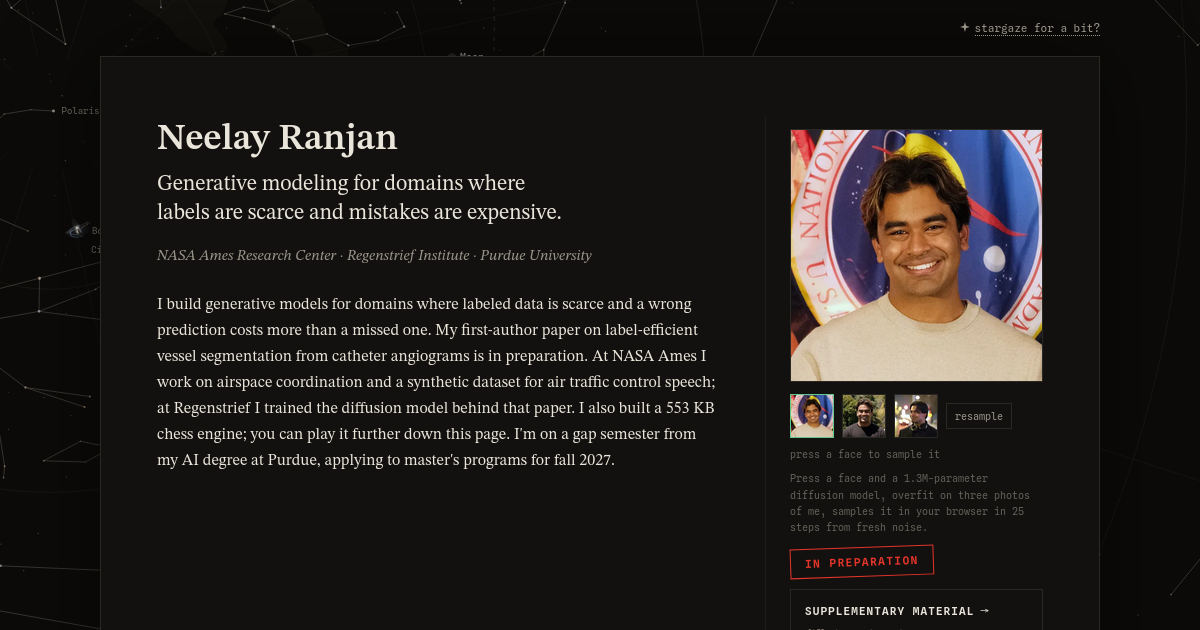
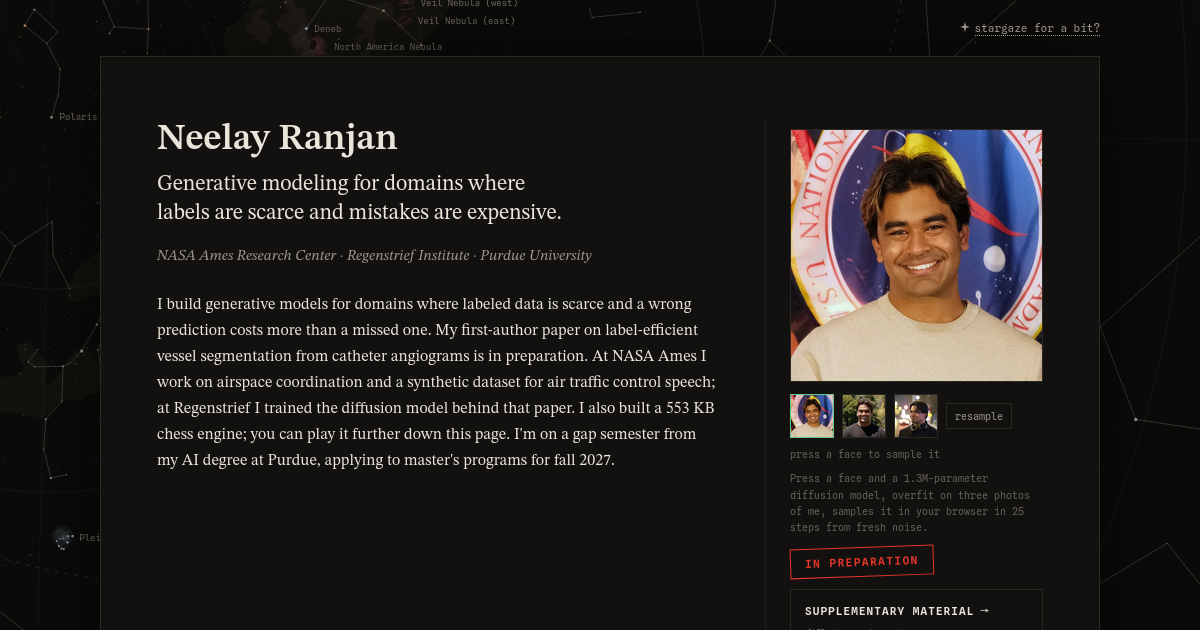
docs: merge-time pass, the SLAAC round goes live; og card regenerated
The owner's NASA mentor and NASA legal approved the preview (2026-10-01).
CLAUDE.md now describes production: Figure 3 is the live rerouter, the
flight video is /lab's S3, the preview-only gates are history, and the
parked doc items (the failed run state, the dotted model arc, the S3
heading) are written down.

diff --git a/CLAUDE.md b/CLAUDE.md
@@ -16,13 +16,19 @@ contracts below.
 
 **In production at neelayranjan.dev since 2026-09-12** (fast-forward of the
 15-task `redesign` build into `main` after a full verification run; the branch
-is deleted; v1 lives at the tag). Page 1: masthead (title, abstract, the
+is deleted; v1 lives at the tag). **2026-10-01: the `slaac-demo` round
+(the live SLAAC rerouter as Figure 3, the flight video to `/lab`, the
+colophon, the secret stargaze door, the mag-6 coloured sky, the myth
+artworks) fast-forwarded into `main` and deployed, after the owner's NASA
+mentor and NASA legal approved its preview.** Page 1: masthead (title, abstract, the
 live-sampled author photo, the paper-status stamp (IN PREPARATION; UNDER REVIEW until 2026-09-14), status only since
 2026-09-16, with the bordered "Supplementary material" box beneath it as the
 door to `/lab`, identity links) → Table 1 → Research
-(Figure 1 label-efficiency sweep, Figure 2 Dice CDF, Figure 3 flight map) →
-the live demos as Figures 4–5 (chess, then draw — swapped 2026-09-13 at the owner's call, the `n` props swapped with them) → Experience as Figure 6 (NASA and Regenstrief
-lamps green/active) → References → the footer's stargaze door → the colophon (`© 2026 Neelay Ranjan · email · Resume`, `Colophon.tsx`, the sheet's last child on `/` and `/lab`; its Resume link carries `data-track-label="Resume"`). `/lab` holds S1–S2 (S3 cut 2026-09-29). Same-day post-launch
+(Figure 1 label-efficiency sweep, Figure 2 Dice CDF, then the bordered NASA
+box holding Figure 3, the live SLAAC rerouter, since 2026-10-01; Figure 3
+was the flight-day video until then) →
+the live demos as Figures 4–5 (chess, then draw — swapped 2026-09-13 at the owner's call, the `n` props swapped with them) → Experience as Figure 6 (Regenstrief's lamp green/active; NASA as two rows
+since 2026-10-01, SLAAC complete and SHIFT active) → References → the footer's stargaze door → the colophon (`© 2026 Neelay Ranjan · email · Resume`, `Colophon.tsx`, the sheet's last child on `/` and `/lab`; its Resume link carries `data-track-label="Resume"`). `/lab` holds S1–S3: the trajectory viewer, JEPA, and since 2026-10-01 the flight-day video as Figure S3 (the sample-space S3 was cut 2026-09-29). Same-day post-launch
 passes: Figure 2 rebuilt from a budget ladder into the paper's pannable Dice
 CDF; the flight video's dark-map treatment; the owner's STIX-N favicon set;
 headshots presented last-class-first (photo 2 is the default face). The wipe
@@ -84,8 +90,8 @@ honest limit: the main-thread ORT wasm heap never actually shrinks, only the
 chess worker's termination truly frees memory. `window.__sky` and
 `window.__offload` are verify hooks, not UI.
 
-**Verification: `scripts/verify-redesign.mjs`** — 53 named checks on the
-`slaac-demo` branch (52 before Task 17, 2026-10-01, added
+**Verification: `scripts/verify-redesign.mjs`** — 53 named checks (on `main`
+since the 2026-10-01 merge of the `slaac-demo` round; 52 before Task 17, 2026-10-01, added
 `stargaze-secret-door`; the count read 51 here though `colophon` made it 52;
 50 before Task 12c, 2026-10-01, added
 `slaac-all-flights`; 45 before the SLAAC round, 2026-09-30, added the five
@@ -302,8 +308,7 @@ scripts/test-sky-iss.mjs scripts/test-sky-images.mjs
 scripts/test-chess-selfplay.mjs scripts/test-resume.mjs
 scripts/test-sky-secret.mjs scripts/test-sky-stars.mjs`** (`test-sky-secret`,
 Task 17's door rule, 4 cases; `test-sky-stars`, Task 18's star paint and
-star colour, 9) plus, on the
-`slaac-demo` branch, the rerouter's ten (`test-slaac-arcs` 16,
+star colour, 9) plus the rerouter's ten (`test-slaac-arcs` 16,
 `test-slaac-data` 8, `test-slaac-dpm` 3, `test-slaac-geometry` 2,
 `test-slaac-guidance` 4, `test-slaac-reroute` 37, `test-slaac-ring` 7,
 `test-slaac-sampler` 5, `test-slaac-summary` 5, `test-slaac-view` 8;
@@ -582,7 +587,10 @@ Also 2026-09-30: **the NASA work sits in its own bordered box**
 holding the NASA paragraph with its SLAAC note and Figure 3, so it reads as
 separate from the paper. The owner plans to grow it into a fuller section;
 the box is that seam. It has no background of its own, on purpose: Figure
-3's video uses `mix-blend-mode: screen` against its own panel.
+3's video used `mix-blend-mode: screen` against its own panel. (Since the
+2026-10-01 merge the box is headed "NASA Ames Research Center" and holds the
+SLAAC and SHIFT paragraphs and Figure 3, the live rerouter; the video, and
+its blend, went to `/lab` as Figure S3.)
 And the chess lede was halved (owner: "cut it down to around half the
 size, if not less"): two short paragraphs of claims, with the training data
 and the int8/fp32 finding moved to a side column of notes inside the
@@ -590,12 +598,14 @@ figure (`copy.systems.chess.ledeNotes`, the same `Note` and 880px split as
 the Research rows). The limit, "here it runs without search, a few hundred
 Elo weaker", stays in the main column.
 
-**2026-09-30/10-01: the SLAAC rerouter, branch `slaac-demo`, PREVIEW ONLY**
-(worktree `../portfolio-slaac`, 16-task SDD build from `1e9b4f8`). ⚠ Nothing
-here is on `main` or neelayranjan.dev: it merges only when the owner says
-their NASA mentor approved the preview link, and the first push (which builds
-that preview) is the owner's call. NASA cleared the Summer 2026 codebase for
-sharing (owner, 2026-09-30), so **Figure 3 became the live rerouter**: pick
+**2026-09-30/10-01: the SLAAC rerouter, LIVE since 2026-10-01** (built on
+branch `slaac-demo` in worktree `../portfolio-slaac`, a 16-task SDD build from
+`1e9b4f8` plus Tasks 17-19: the secret stargaze door, the denser sky
+below, the myth artworks; it was held as a preview-only branch until
+the owner's NASA mentor and NASA legal approved the preview, then
+fast-forwarded into `main` and deployed the same day, 2026-10-01). NASA
+cleared the Summer 2026 codebase for sharing (owner, 2026-09-30), so
+**Figure 3 became the live rerouter**: pick
 one of 48 hub pairs, its flight-plan-LM routes draw, draw an airspace or turn
 on all six US launch sites, and the owner's 5.78M-param diffusion model
 reroutes every flight in a worker and snaps each arc to named fixes, with
@@ -618,8 +628,8 @@ laptop, longer with more airspace or every flight at once" and nothing about
 phones. The numbers behind each phrase are in content/copy.ts's comments.
 Contracts, rulings and numbers: "SLAAC rerouter (Figure 3)" under the demos.
 
-**2026-10-01, Task 18 (branch `slaac-demo`): a denser, more colourful sky,
-every addition real.** Owner: "more randomly added stars around so that it's
+**2026-10-01, Task 18 (built on `slaac-demo`, LIVE with it the same day): a
+denser, more colourful sky, every addition real.** Owner: "more randomly added stars around so that it's
 decently dense, but the constellations still pop out", then colour and pop
 for stargazing. Ruling R23 made it REAL stars, never random ones: the same
 pinned stars.6.json to mag 6.0 (5,044 stars against 1,627), the fainter
@@ -639,11 +649,11 @@ star colour, and the band's gradient".
 
 **Open items, roughly in order:**
 
-The SLAAC round's own, ahead of the list (branch `slaac-demo`):
-- a. **Mentor approval of the preview is the merge gate.** Before the first
-  push, ask the owner; check Vercel's Deployment Protection so the mentor can
-  open the preview (a shareable link or a bypass, the owner's choice).
-- b. **Chrome proper and the owner's iPhone, timed on the preview link.** The
+The SLAAC round's own, ahead of the list (LIVE on `main` since 2026-10-01):
+- a. ~~Mentor approval of the preview is the merge gate.~~ **DONE
+  2026-10-01**: the owner's NASA mentor and NASA legal approved the preview,
+  and the branch was fast-forwarded into `main` and deployed.
+- b. **Chrome proper and the owner's iPhone, timed on production.** The
   laptop numbers are in the SLAAC section; no phone has run the rerouter.
   The phone batch cap (4) is unmeasured on a phone: if the iPhone stalls
   between progress updates, 2 is the lever, and on this laptop it costs
@@ -789,9 +799,9 @@ and the owner's SOP tell one story.
 - **Interactivity bar**: prose sections stay readable — no forced gimmicks — but
   every text section carries one real-work artifact beside it: bio → headshot
   diffusion toy · research → the label-efficiency chart (static since 2026-09-30) and the Dice-CDF pan ·
-  experience → flight-day video (production; on the `slaac-demo` branch the
-  NASA box's artifact is the live rerouter, Figure 3, and the video is Figure
-  S3 on `/lab`) · publications → figure hovers. The owner's
+  experience → the live SLAAC rerouter, Figure 3 in the NASA box (since
+  2026-10-01; the flight-day video held that slot until then and is now
+  Figure S3 on `/lab`) · publications → figure hovers. The owner's
   rule: "at no point should the user just be staring and reading at something."
 - Fallback is the git tag `v1`, nothing more. No legacy subdomain.
 - **Figure colour conventions (owner calls, 2026-09-12): green = x0-diffusion**
@@ -847,7 +857,8 @@ is gone.** The resume now reads 88.2% Dice at 16 labels, the 75%
 correction-time speedup, Regenstrief from Feb 2024, and both first-author
 manuscripts by name, all matching this file. **The NASA gap is RESOLVED
 (2026-09-30)**: the resume now lists NASA as two roles, SLAAC and SHIFT, and
-the `slaac-demo` branch's copy follows it (see the NASA bullet below). **One
+the site's copy follows it since the 2026-10-01 merge (see the NASA bullet
+below). **One
 gap is still open and is the owner's call**: the resume lists TWO first-author manuscripts in preparation (the second,
 "Modular SAM-prior diffusion refinement for real-world angiogram and
 seven-shot moyamoya MRA vessel segmentation"), while the site names one.
@@ -904,9 +915,9 @@ not a contradiction. The original drift list, for the record:
   wording); returns January 2027; graduates May 2027.** Rendered as its own
   Experience row on an amber "gap semester" lamp (owner call, 2026-09-14).
 - **NASA Ames is two roles** (per the resume since 2026-09-30; NASA Ames,
-  Aeronautics Directorate, Code AF, May 2026 to present; the `slaac-demo`
-  branch's NASA box and Experience rows follow it, production still shows the
-  older two-engagement arc until that branch merges):
+  Aeronautics Directorate, Code AF, May 2026 to present; the NASA box and Experience rows follow it since the
+  2026-10-01 merge, before which the site showed the older two-engagement
+  arc):
   **GenAI Applied Research Intern, SLAAC, May-Aug 2026** (space launch and
   air/airspace coordination, the owner's wording since 2026-10-01; mentors on
   the poster Dr. Kapil Sheth and Prachi Panda, never named in visitor copy):
@@ -927,8 +938,8 @@ not a contradiction. The original drift list, for the record:
   comments, not on the page. **The Summer
   2027 lunar digital twin is DROPPED** (owner, 2026-09-14: no longer
   pursuing it); never mention it again.
-- **The flight-day transformer (Figure 3 on production; Figure S3 on `/lab`
-  on the `slaac-demo` branch) is the owner's own work**, trained
+- **The flight-day transformer (Figure S3 on `/lab` since 2026-10-01;
+  page 1's Figure 3 before that) is the owner's own work**, trained
   from scratch (owner, 2026-09-14), and **part of SLAAC** (owner,
   2026-09-29). What broke: the waypoint system, where a continuous route that
   obeyed every rule often stopped obeying once snapped onto the waypoint map;
@@ -1162,7 +1173,7 @@ work is real. (Code comments and this file are maintainer-facing and exempt.)
   bundle.
 - Loading discipline (v1 behavior worth keeping in any design): nothing heavy in
   flight at first paint; each demo's payload loads when its section is reached;
-  the 26MB draw model loads on first interaction (and, on `slaac-demo`, the
+  the 26MB draw model loads on first interaction (and the
   rerouter's 23.4MB model on the first reroute press that has an arc to
   sample, never in the warm window); ORT+chess (24.4MB) may warm on
   desktop idle, gated by `saveData` / bad `effectiveType` / `deviceMemory < 4` /
@@ -2382,7 +2393,7 @@ work is real. (Code comments and this file are maintainer-facing and exempt.)
   for this model because the backbone never downsamples below 8x8; don't attempt
   it on the diffusion UNets.
 
-### SLAAC rerouter (Figure 3) — page 1's NASA box (PREVIEW ONLY, branch `slaac-demo`)
+### SLAAC rerouter (Figure 3) — page 1's NASA box (LIVE since 2026-10-01)
 - What it is: the owner's SLAAC hazard-aware rerouter, live. The figure
   opens on all 373 library routes at once (Task 12c), or a visitor picks
   one of 48 hub pairs; the LM-filed routes draw, they draw an airspace and/or
@@ -2632,6 +2643,36 @@ work is real. (Code comments and this file are maintainer-facing and exempt.)
   `arcsTotal`, `picked`), `data-reroute-go-state`, `data-reroute-planned`,
   `data-reroute-summary` / `data-summary` and `data-reroute-detail` are
   verify hooks, not UI.
+- **The model's own arc, dotted under each snapped plan** (`drawPlan` in
+  `reroute-map.ts`; each result's `dense` comes from `denseOf` in
+  `lib/slaac/run.ts`: the plan's filed and rejoin fixes as they stand, with
+  each sampled arc's interior points standing in for that run's snapped
+  deviation fixes, i.e. the path as the model drew it before the snap). In
+  snapped display, for any flight whose plan has a non-filed role, the dense
+  arc strokes FIRST, 1px, dash `[1, 3]`, in the plan's green eased toward
+  the panel at `DENSE_UNDER = 0.4`, taking the same stale (x0.35) and
+  cannot-clear (x0.5) fades as the plan, and the subordinate grey under a
+  pick; the plan then draws over it. So the sampled path and the plan snapped
+  from it both show, which is the snapping the owner's poster is about. The
+  caption names it ("the faint dotted line is the arc before snapping").
+  In continuous display (the gate's fallback rung; `meta.json` ships
+  `snapped`) the dense arc IS the plan, drawn at full width, dashed `[5, 3]`.
+  `slaac-all-flights` treats the dense arc as an obstacle when it samples a
+  pick's red filed legs.
+- **The `failed` run state** (`RunState`, readout `copy.research.figReroute.runFailed`,
+  "The reroute stopped with an error. Try again."; `data-reroute-status`
+  state `failed`): a press throws something other than `SlaacCancelled` /
+  `SlaacUnloaded` AFTER the planner chunk is in hand (`phase === "run"`:
+  the airspace load and arc plan, or the worker's run once the model
+  loaded). A throw
+  while the planner or the model is still loading is `unavailable` instead,
+  and nothing can run. The error goes to `console.error`; no done, no
+  `demo_used`; the button stays amber (`idle-stale`). `failed` PERSISTS
+  across margin, lookahead and ring changes: those only make the shown
+  result stale and never touch `runState`, so the error line stays until the
+  next press (which sets `planning`) or a change of route pair (the one
+  control that resets `failed` to `idle`, since the error was the old pair's
+  run). Stop, stargaze and a superseding press are never `failed`.
 - **Measured** (Task 15, 2026-09-30, this laptop, production build, headed;
   first press, cold cache; median of 3 [range]): stock Firefox 152 (driven
   over WebDriver BiDi): KJFK-KMIA past all six launch sites, 3 arcs, 2.77 s
@@ -2646,7 +2687,7 @@ work is real. (Code comments and this file are maintainer-facing and exempt.)
   (JavaScriptCore): 8.3 s, ~330 ms per forward, idle afterwards flat at
   ~600-850 MB and ~97% CPU (the sky's render floor), no runaway. Playwright's
   Firefox: 15.8 s, see the trap. **Owed**: Chrome proper and the owner's
-  iPhone on the preview link; no phone number exists, and the copy says only
+  iPhone on production; no phone number exists, and the copy says only
   "seconds on my laptop, longer with more airspace or every flight at once"
   (no numerals since 2026-10-01; behind it: medians 2.07-6.54 s across the
   cases, one 7.89 s Chromium run under load; each extra drawn airspace can
@@ -2809,8 +2850,13 @@ work is real. (Code comments and this file are maintainer-facing and exempt.)
   the cursor is still a threshold, and the copy keeps saying so. Panel Dice =
   computed from the shown pixels (SAM's are a fresh stochastic draw; see the
   drift bullet above).
-- **Figure 3 (flight video, `FlightFigure.tsx`)**, Figure S3 on `/lab` on the
-  `slaac-demo` branch, where the live rerouter took Figure 3's slot: the committed mp4 is
+- **Figure S3 on `/lab` (flight video, `FlightFigure.tsx`)**, page 1's
+  Figure 3 until the live rerouter took that slot (2026-10-01): the component
+  takes an `n` prop, and `app/lab/page.tsx` mounts it as `n="S3"`
+  (`id="flight"`, behind `DeferredMount`) with its own heading and lede,
+  `copy.lab.flight` ("A language model that writes flight plans", pointing
+  back at Figure 3's filed routes as this model's output); `lab-flight-video`
+  pins play in view, pause out of it and the S3 caption. The committed mp4 is
   untouched; the dark-map look is pure CSS — `invert(1) hue-rotate(33deg)
   saturate(2.1) brightness(1.05)` lands the blips on the warm token,
   `mix-blend-mode: screen` makes the inverted-black ground contribute nothing
@@ -2843,7 +2889,7 @@ work is real. (Code comments and this file are maintainer-facing and exempt.)
 | `public/headshot/v2/photos/{0,1,2}_thumb.webp` | ~2 KB each | 96² derivatives for the 44px face buttons (first paint) |
 | `public/research/*` | ~1.7 MB | prepare-research outputs: `label_efficiency.json` + `eff/` strip (Figure 1), `cdf/` stops + `cdf.json` (Figure 2), flight mp4 + poster, wipe assets (unrendered), `provenance.json` |
 | `public/sky/images/*` | ~3.7 MB | 35 card photographs and (task 19) 37 myth-constellation artworks (640px WebP, metadata stripped) plus `index.json` with author, license, Commons source and pinned sha1; built by `scripts/prepare-sky-images.mjs` from `scripts/sky-image-picks.json` |
-| `public/models/flightdiff-b3463317.onnx` | 23.4 MB | the SLAAC rerouter's diffusion UNet (5.78M params, fp32, opset 17, dynamic batch; ONNX vs torch max abs 3.8e-6), branch `slaac-demo`; the hash in the name is its sha256's head, and `meta.json` names it |
+| `public/models/flightdiff-b3463317.onnx` | 23.4 MB | the SLAAC rerouter's diffusion UNet (5.78M params, fp32, opset 17, dynamic batch; ONNX vs torch max abs 3.8e-6); the hash in the name is its sha256's head, and `meta.json` names it |
 | `public/slaac/meta.json` | 1.5 KB | normalization stats, channels, the scheduler config, the sampler (20 steps, from the gate) and reroute settings, the model's name and sha256, `display: "snapped"`, `policies: ["wide", "hug"]` |
 | `public/slaac/routes.json` | 143 KB | the LM route library: 48 pairs, 373 routes, each with its tokens, fixes and seed (`scripts/slaac/route_library.py`) |
 | `public/slaac/navaids.json` | 57 KB | the snap table: 3-letter navaids from the nav DB, clipped to the lower-48 box |
@@ -2861,10 +2907,12 @@ repo generates it. `public/headshot/v2/` is copied verbatim out of
 to the `headshot256*` / `headshot128*` scheme; the photos re-encoded from the new
 `photos/{i}.png` with `ffmpeg -map_metadata -1 -c:v libwebp -quality 80`, 512²
 plus 96² thumbs); the bundle's `vectors/` and `*_{128,256}.png` training inputs
-stay out of `public/`. Git LFS: settled, not needed (~51 MB tracked binaries after task 19's ~2 MB of artworks;
-up from ~47 MB since the card photographs; final-review fix #9, 2026-09-17;
-~73 MB on the `slaac-demo` branch with the rerouter's 23.4 MB ONNX, still
-under GitHub's 100 MB per-file limit). `public/models/flightdiff-*.onnx` and
+stay out of `public/`. Git LFS: settled, not needed (~73.5 MB tracked binaries on `main` since
+the 2026-10-01 merge, measured over the tracked onnx/webp/png/mp4/ico/pdf
+files: the rerouter's 23.4 MB ONNX and task 19's ~2 MB of artworks on top
+of the ~48 MB `main` held before it; ~47 MB until the card photographs,
+final-review fix #9, 2026-09-17; every file still under GitHub's 100 MB
+per-file limit). `public/models/flightdiff-*.onnx` and
 `public/slaac/*` come from `scripts/slaac/` (hand-run, a local venv with
 torch 2.13 and diffusers 0.38.0, reading the NASA directory by path).
 
